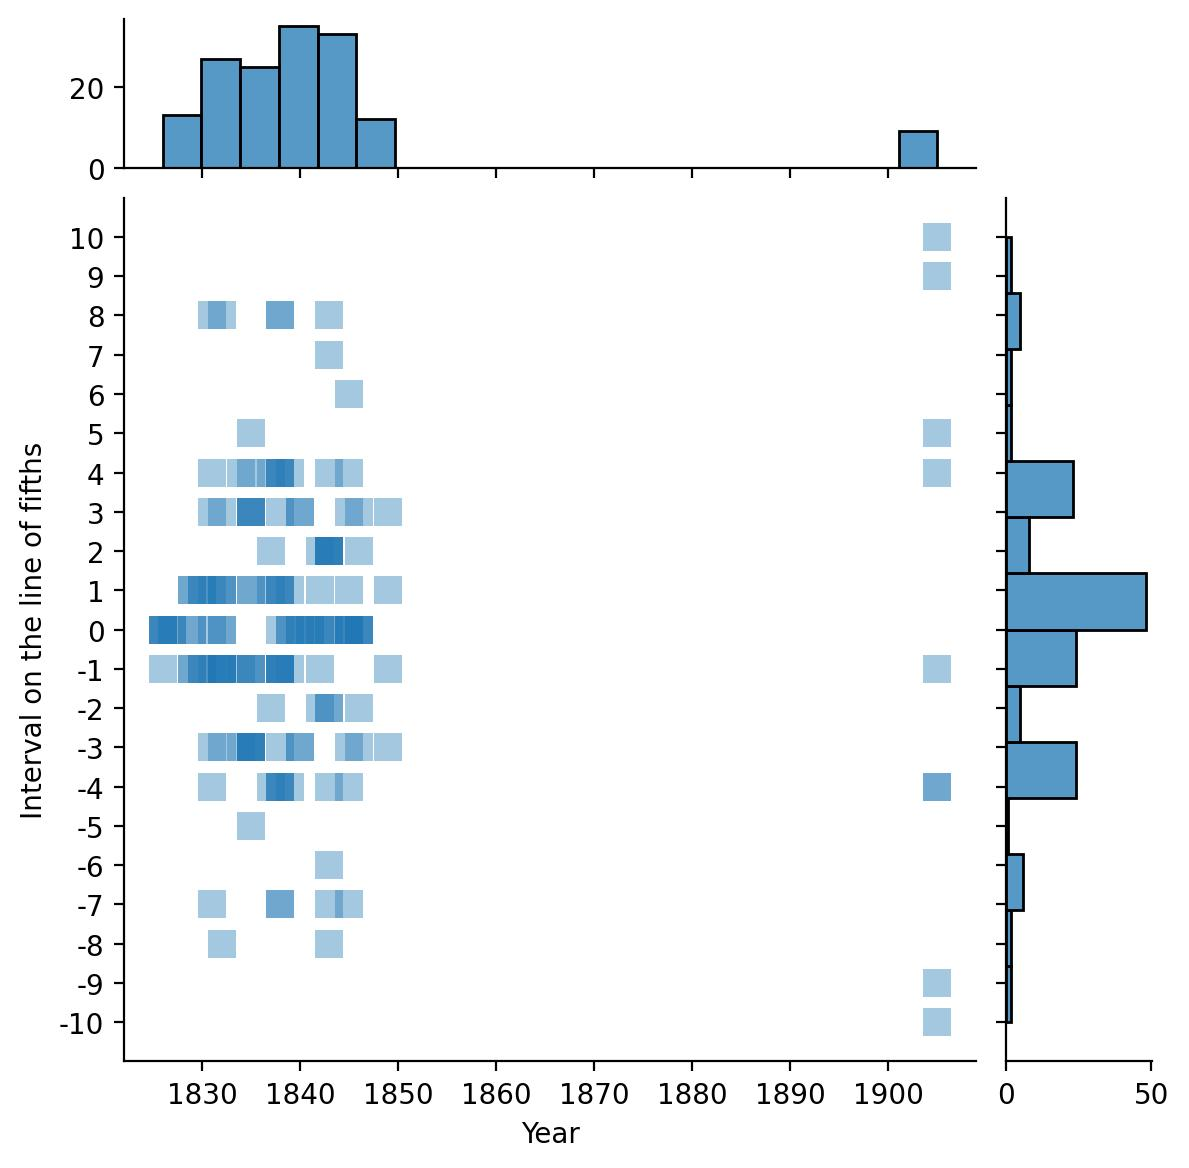
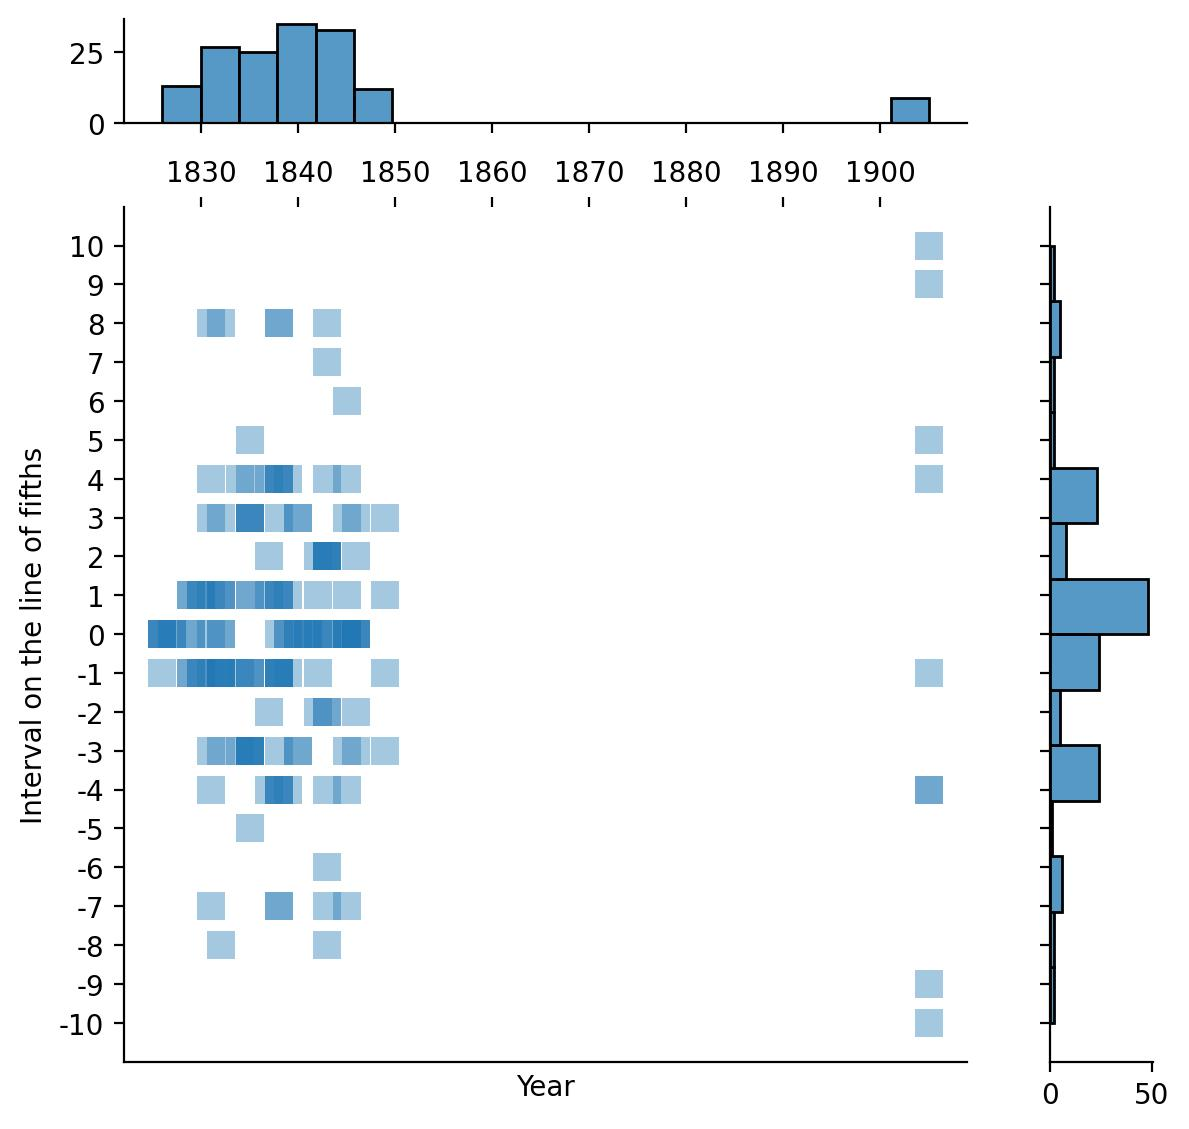
home: by era by modes plot completed sunday last update

diff --git a/modulation/plotting.py b/modulation/plotting.py
@@ -48,8 +48,8 @@ class Modulation:
             fname = piece.piece_name
             composed_end_yr = \
                 corpus.metadata_df[corpus.metadata_df['fnames'] == piece.piece_name]['composed_end'].values[0]
-            localkey_labels = '-'.join(piece.get_localkey_lable_list())
-            num_modulations = len(piece.get_localkey_lable_list())
+            localkey_labels = '-'.join(piece.get_localkey_label_list())
+            num_modulations = len(piece.get_localkey_label_list())
             modulation_data_list = list([corpus_name, fname, composed_end_yr, localkey_labels, num_modulations])
             modulation_df_list.append(modulation_data_list)
 
@@ -123,6 +123,52 @@ class Modulation:
             modulation_df = _metacorpora_modulation_df(annotated_corpus_list)
             return modulation_df
 
+    def _piece_modulation_short_df(self, this_piece: PieceInfo) -> pd.DataFrame:
+        """Transform the modulation df into a dataframe with columns: [interval, count, year, era] of a piece"""
+
+        interval_df = self._modulation_df(this_piece)
+        modulation_short_df = interval_df['interval'].value_counts().reset_index().rename(
+            columns={'index': 'interval', 'interval': 'count'})
+        length = modulation_short_df.shape[0]
+        modulation_short_df['year'] = [this_piece.composed_year] * length
+        modulation_short_df['era'] = [util.determine_era_based_on_year(this_piece.composed_year)] * length
+        modulation_short_df['corpus'] = [this_piece.corpus_name] * length
+        return modulation_short_df
+
+    def _modulation_short_df(self, data_source: Union[MetaCorpraInfo, CorpusInfo, PieceInfo]) -> pd.DataFrame:
+        """Transform data into a dataframe with columns: [interval, count, year, era]"""
+
+        def _corpus_modulation_short_df(this_corpus: CorpusInfo):
+            corpus_heatmap_data_list = []
+            filtered_piece_list = self._eligible_pieces_list(this_corpus)
+            for item in filtered_piece_list:
+                piece_heatmap_data = self._piece_modulation_short_df(item)
+                corpus_heatmap_data_list.append(piece_heatmap_data)
+            corpus_modulation_df = pd.concat(corpus_heatmap_data_list, ignore_index=True)
+            return corpus_modulation_df
+
+        def _metacorpora_modulation_short_df(this_metacorpora: MetaCorpraInfo):
+            metacorpora_heatmap_data_list = []
+            filtered_corpus_list = self._eligible_corpora_list(this_metacorpora)
+
+            for item in filtered_corpus_list:
+                corpus_heatmap_data = _corpus_modulation_short_df(item)
+                metacorpora_heatmap_data_list.append(corpus_heatmap_data)
+            metacorpora_modulation_df = pd.concat(metacorpora_heatmap_data_list, ignore_index=True)
+            return metacorpora_modulation_df
+
+        if isinstance(data_source, PieceInfo):
+            heatmap_df = self._piece_modulation_short_df(data_source)
+            return heatmap_df
+
+        elif isinstance(data_source, CorpusInfo):
+            heatmap_df = _corpus_modulation_short_df(data_source)
+            return heatmap_df
+
+        elif isinstance(data_source, MetaCorpraInfo):
+            heatmap_df = _metacorpora_modulation_short_df(data_source)
+            return heatmap_df
+
     # _______________________________________ plotting _________________________________________
     def plot_chronological_distribution_of_pieces(self, fig_path: Optional[str], savefig: bool = True,
                                                   showfig: bool = False) -> plt.Figure:
@@ -172,7 +218,7 @@ class Modulation:
             if not os.path.exists(fig_path):
                 os.makedirs(fig_path)
 
-            g.savefig(fname=fig_path + 'modulation_count.jpeg', dpi=200, format='jpeg')
+            g.savefig(fname=fig_path + 'ms_count.jpeg', dpi=200, format='jpeg')
 
         if showfig:
             plt.show()
@@ -186,12 +232,16 @@ class Modulation:
         """
         data = self._modulation_df(data_source=self.metacorpora, fifths=True)
         min, max = data['interval'].min(), data['interval'].max()
-        g = sns.jointplot(data=data, x='year', y='interval',
+        g = sns.jointplot(data=data, x='year', y='interval', space=0.8,
                           marginal_ticks=True, s=100, marker='s', alpha=0.4, linewidth=0)
         g.ax_joint.set(yticks=list(range(min, max + 1)))
         g.ax_joint.yaxis.set_major_formatter(FuncFormatter(lambda x, _: int(x)))
 
         g.set_axis_labels('Year', 'Interval on the line of fifths')
+
+        g.ax_joint.tick_params(top=True, labeltop=True, bottom=False, labelbottom=False)
+        plt.rcParams['ytick.right'] = plt.rcParams['ytick.labelright'] = True
+        plt.rcParams['ytick.left'] = plt.rcParams['ytick.labelleft'] = False
 
         if savefig:
             if fig_path is None:
@@ -205,6 +255,25 @@ class Modulation:
             plt.show()
 
         return g
+
+    def plot_modulation_interval_heatmap(self, fig_path: Optional[str], savefig: bool = True,
+                                         showfig: bool = False):
+
+        data = self._modulation_short_df(data_source=self.metacorpora).pivot("interval", "year", "count")
+        fig, ax = plt.subplots(figsize=(9, 6))
+        sns.heatmap(data, linewidths=.5, ax=ax)
+
+        if savefig:
+            if fig_path is None:
+                fig_path = '../figs/'
+            if not os.path.exists(fig_path):
+                os.makedirs(fig_path)
+
+            fig.savefig(fname=fig_path + 'ms_heatmap.jpeg', dpi=200, format='jpeg')
+
+        if showfig:
+            plt.show()
+        return fig
 
     def plot_modulation_interval_distr_by_modes(self,
                                                 fig_path: Optional[str], savefig: bool = True,
@@ -265,8 +334,8 @@ class Modulation:
 
         return grid
 
-    def modulation_interval_by_modes_by_era(self, fig_path: Optional[str], era_order=None,
-                                            savefig: bool = True, showfig: bool = False):
+    def plot_modulation_interval_by_modes_by_era(self, fig_path: Optional[str], era_order=None,
+                                                 savefig: bool = True, showfig: bool = False):
         if era_order is None:
             era_order = ['Renaissance', 'Baroque', 'Classical', 'Romantic']
 

diff --git a/modulation/loader.py b/modulation/loader.py
@@ -96,7 +96,7 @@ class PieceInfo:
         else:
             return str('NA')
 
-    def get_localkey_lable_list(self):
+    def get_localkey_label_list(self):
         localkey_list = self.get_aspect_df(aspect='harmonies', selected_keys=['localkey']).values.flatten().tolist()
         prev = object()
         localkey_list = [prev := v for v in localkey_list if prev != v]
@@ -104,7 +104,7 @@ class PieceInfo:
 
     def get_modulation_bigrams_list(self) -> List[str]:
         globalkey = self.get_aspect_df(aspect='harmonies', selected_keys=['globalkey']).values.flatten()[0]
-        localkey_list = self.get_localkey_lable_list()
+        localkey_list = self.get_localkey_label_list()
         modulation_bigrams = util.get_n_grams(sequence=localkey_list, n=2)
         modulation_bigrams = ["_".join([item[0], item[1]]) for idx, item in enumerate(modulation_bigrams)]
 
@@ -214,7 +214,7 @@ class CorpusInfo:
         corpus_modulation_list = []
         for idx, val in enumerate(self.annotated_piece_name_list):
             piece = PieceInfo(parent_corpus_path=self.corpus_path, piece_name=val)
-            piece_modulation_df = pd.DataFrame(piece.get_localkey_lable_list(), columns=['modulations'])
+            piece_modulation_df = pd.DataFrame(piece.get_localkey_label_list(), columns=['modulations'])
             piece_modulation_df['fname'] = val
             piece_modulation_df['composed_end'] = \
                 self.metadata_df[self.metadata_df['fnames'] == val]['composed_end'].values[0]
@@ -390,4 +390,4 @@ class MetaCorpraInfo:
 if __name__ == '__main__':
     piece = PieceInfo(parent_corpus_path="../romantic_piano_corpus/debussy_suite_bergamasque/",
                       piece_name="l075-01_suite_prelude")
-    print(piece.get_modulation_bigrams_list())
+    print(piece.get_localkey_label_list())

diff --git a/plotting.py b/plotting.py
@@ -79,9 +79,9 @@ class ModulationSteps:
             corpus_name = piece.corpus_name
             fname = piece.piece_name
             composed_end_yr = \
-            corpus.metadata_df[corpus.metadata_df['fnames'] == piece.piece_name]['composed_end'].values[0]
-            localkey_labels = '-'.join(piece.get_localkey_lable_list())
-            num_modulations = len(piece.get_localkey_lable_list())
+                corpus.metadata_df[corpus.metadata_df['fnames'] == piece.piece_name]['composed_end'].values[0]
+            localkey_labels = '-'.join(piece.get_localkey_label_list())
+            num_modulations = len(piece.get_localkey_label_list())
             modulation_data_list = list([corpus_name, fname, composed_end_yr, localkey_labels, num_modulations])
             modulation_df_list.append(modulation_data_list)
 

diff --git a/main.py b/main.py
@@ -8,5 +8,5 @@ if __name__ == '__main__':
     meta_corpora_path = 'romantic_piano_corpus/'
     metacorpora = MetaCorpraInfo(meta_corpora_path=meta_corpora_path)
     modulation = Modulation(metacorpora)
-    modulation.modulation_interval_by_modes_by_era(fig_path='fixed_figs/')
-    print(modulation._modulation_df(data_source=metacorpora).to_markdown())
+    modulation.plot_modulation_interval_distribution(fig_path='fixed_figs/')
+    print(modulation._modulation_short_df(data_source=metacorpora).to_markdown())
